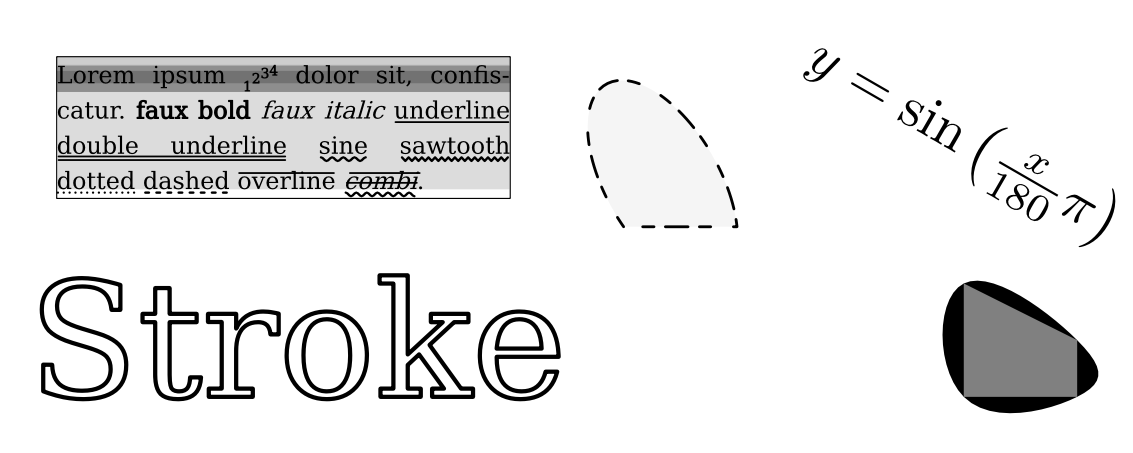
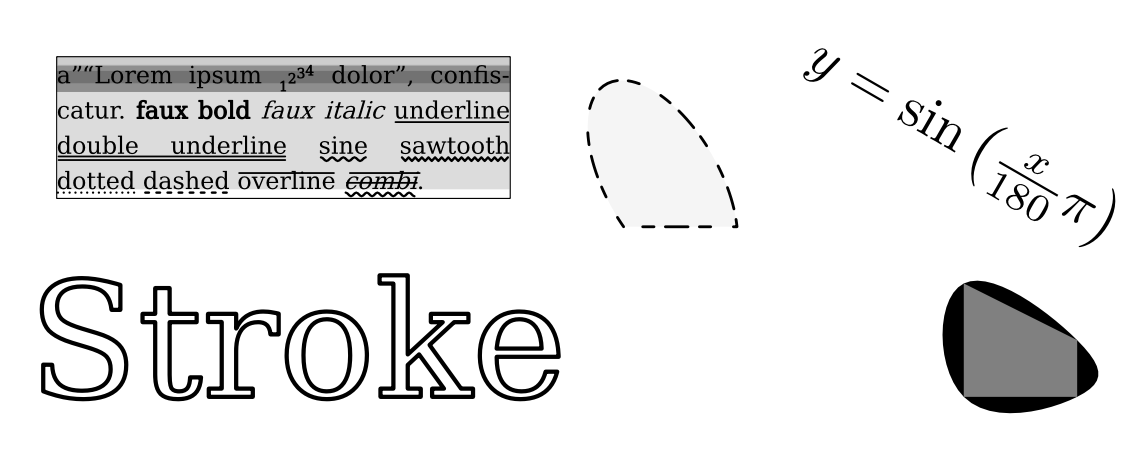
Clean up Text

Changed region(s): [[0.0309, 0.1236, 0.3707, 0.1854]]

diff --git a/text.go b/text.go
@@ -59,7 +59,7 @@ type span interface {
 	ToPath(float64) *Path
 }
 
-////////////////////////////////
+////////////////////////////////////////////////////////////////
 
 type RichText struct {
 	spans      []span
@@ -392,30 +392,30 @@ func (t *Text) ToSVG(x, y, rot float64, c color.Color) string {
 			switch span := ls.span.(type) {
 			case textSpan:
 				name, size, style := span.ff.Info() // TODO: use faux styles and decoration
-				span.splitAtSpacings(ls.dx, ls.w, func(dx, w, glyphSpacing float64, s string) {
-					sb.WriteString("<tspan x=\"")
-					writeFloat64(&sb, x+dx)
-					sb.WriteString("\" y=\"")
-					writeFloat64(&sb, y-line.y)
-					if glyphSpacing > 0.0 {
-						sb.WriteString("\" textLength=\"")
-						writeFloat64(&sb, w)
-					}
-					sb.WriteString("\" font-family=\"")
-					sb.WriteString(name)
-					sb.WriteString("\" font-size=\"")
-					writeFloat64(&sb, size)
-					if style&Italic != 0 {
-						sb.WriteString("\" font-style=\"italic")
-					}
-					if style&Bold != 0 {
-						sb.WriteString("\" font-weight=\"bold")
-					}
-					sb.WriteString("\">")
-					s = span.ff.f.transform(s, w == 0.0)
-					sb.WriteString(s)
-					sb.WriteString("</tspan>")
-				})
+				glyphSpacing := span.getGlyphSpacing(ls.w)
+
+				sb.WriteString("<tspan x=\"")
+				writeFloat64(&sb, x+ls.dx)
+				sb.WriteString("\" y=\"")
+				writeFloat64(&sb, y-line.y)
+				if glyphSpacing > 0.0 {
+					sb.WriteString("\" textLength=\"")
+					writeFloat64(&sb, span.textWidth+float64(utf8.RuneCountInString(span.s))*glyphSpacing)
+				}
+				sb.WriteString("\" font-family=\"")
+				sb.WriteString(name)
+				sb.WriteString("\" font-size=\"")
+				writeFloat64(&sb, size)
+				if style&Italic != 0 {
+					sb.WriteString("\" font-style=\"italic")
+				}
+				if style&Bold != 0 {
+					sb.WriteString("\" font-weight=\"bold")
+				}
+				sb.WriteString("\">")
+				span.s = span.ff.f.transform(span.s, glyphSpacing == 0.0)
+				sb.WriteString(span.s)
+				sb.WriteString("</tspan>")
 			default:
 				panic("unsupported span type")
 			}
@@ -425,16 +425,17 @@ func (t *Text) ToSVG(x, y, rot float64, c color.Color) string {
 	return sb.String()
 }
 
+////////////////////////////////////////////////////////////////
+
 type textSpan struct {
-	ff        FontFace
-	s         string
-	textWidth float64
-	//sentenceSpacings int
-	//wordSpacings     int
+	ff             FontFace
+	s              string
+	textWidth      float64
 	glyphSpacings  int
 	wordBoundaries []textBoundary
 }
 
+// TODO: proper transformation of typographic elements, ie. including surrounding text
 func newTextSpan(ff FontFace, s string) textSpan {
 	textWidth := ff.TextWidth(s)
 	wordBoundaries, glyphSpacings := calcWordBoundaries(s)
@@ -477,31 +478,22 @@ func (ts textSpan) Split(width float64) (span, span) {
 	return nil, ts
 }
 
-func (ts textSpan) ToPath(width float64) *Path {
-	//sentenceSpacing := 0.0
-	//wordSpacing := 0.0
+func (ts textSpan) getGlyphSpacing(width float64) float64 {
 	glyphSpacing := 0.0
-	if width > ts.textWidth {
-		widthLeft := width - ts.textWidth
-		xHeight := ts.ff.Metrics().XHeight
-		//if ts.sentenceSpacings > 0 {
-		//	sentenceSpacing = math.Min(widthLeft/float64(ts.sentenceSpacings), xHeight*MaxSentenceSpacing)
-		//	widthLeft -= float64(ts.sentenceSpacings) * sentenceSpacing
-		//}
-		//if ts.wordSpacings > 0 {
-		//	wordSpacing = math.Min(widthLeft/float64(ts.wordSpacings), xHeight*MaxWordSpacing)
-		//	widthLeft -= float64(ts.wordSpacings) * wordSpacing
-		//}
-		if ts.glyphSpacings > 0 {
-			glyphSpacing = math.Min(widthLeft/float64(ts.glyphSpacings), xHeight*MaxGlyphSpacing)
-		}
+	maxGlyphSpacing := ts.ff.Metrics().XHeight * MaxGlyphSpacing
+	if 0 < ts.glyphSpacings && ts.textWidth < width && width < ts.textWidth+float64(ts.glyphSpacings)*maxGlyphSpacing {
+		glyphSpacing = (width - ts.textWidth) / float64(ts.glyphSpacings)
 	}
+	return glyphSpacing
+}
+
+func (ts textSpan) ToPath(width float64) *Path {
+	glyphSpacing := ts.getGlyphSpacing(width)
 	s := ts.ff.f.transform(ts.s, glyphSpacing == 0.0)
 
 	x := 0.0
 	p := &Path{}
 	var rPrev rune
-	//iBoundary := 0
 	for i, r := range s {
 		if i > 0 {
 			x += ts.ff.Kerning(rPrev, r)
@@ -512,64 +504,13 @@ func (ts textSpan) ToPath(width float64) *Path {
 		p.Append(pr)
 		x += advance
 
-		spacing := glyphSpacing
-		//if iBoundary < len(ts.textBoundaries) && ts.textBoundaries[iBoundary].pos == i {
-		//	if ts.textBoundaries[iBoundary].kind == wordBoundary {
-		//		spacing = wordSpacing
-		//	} else if ts.textBoundaries[iBoundary].kind == sentenceBoundary {
-		//		spacing = sentenceSpacing
-		//	}
-		//	iBoundary++
-		//}
-		x += spacing
+		x += glyphSpacing
 		rPrev = r
 	}
 	return p
 }
 
-// TODO: remove
-func (ts textSpan) splitAtSpacings(spanDx, width float64, f func(float64, float64, float64, string)) {
-	//spaceWidth := ts.ff.TextWidth(" ")
-	//sentenceSpacing := 0.0
-	//wordSpacing := 0.0
-	glyphSpacing := 0.0
-	if width > ts.textWidth {
-		widthLeft := width - ts.textWidth
-		xHeight := ts.ff.Metrics().XHeight
-		//	if ts.sentenceSpacings > 0 {
-		//		sentenceSpacing = math.Min(widthLeft/float64(ts.sentenceSpacings), xHeight*MaxSentenceSpacing)
-		//		widthLeft -= float64(ts.sentenceSpacings) * sentenceSpacing
-		//	}
-		//	if ts.wordSpacings > 0 {
-		//		wordSpacing = math.Min(widthLeft/float64(ts.wordSpacings), xHeight*MaxWordSpacing)
-		//		widthLeft -= float64(ts.wordSpacings) * wordSpacing
-		//	}
-		if ts.glyphSpacings > 0 {
-			glyphSpacing = math.Min(widthLeft/float64(ts.glyphSpacings), xHeight*MaxGlyphSpacing)
-		}
-	}
-	//if sentenceSpacing > 0.0 || wordSpacing > 0.0 {
-	//	prevPos := 0
-	//	dx := spanDx
-	//	for _, textBoundary := range ts.textBoundaries {
-	//		s := ts.s[prevPos:textBoundary.pos]
-	//		w := ts.ff.TextWidth(s)
-	//		if glyphSpacing > 0.0 {
-	//			w += float64(utf8.RuneCountInString(s)-1) * glyphSpacing
-	//		}
-	//		f(dx, w, glyphSpacing, s)
-	//		prevPos = textBoundary.pos + 1
-	//		dx += ts.ff.TextWidth(s) + spaceWidth + float64(utf8.RuneCountInString(s))*glyphSpacing
-	//		if textBoundary.kind == wordBoundary {
-	//			dx += wordSpacing
-	//		} else if textBoundary.kind == sentenceBoundary {
-	//			dx += sentenceSpacing
-	//		}
-	//	}
-	//} else {
-	f(spanDx, width, glyphSpacing, ts.s)
-	//}
-}
+////////////////////////////////////////////////////////////////
 
 type textBoundaryKind int
 

diff --git a/example/example.go b/example/example.go
@@ -91,12 +91,12 @@ func drawText(c *canvas.C, x, y float64, face canvas.FontFace, rich *canvas.Rich
 func Draw(c *canvas.C) {
 	face := dejaVuSerif.Face(12.0)
 	rich := canvas.NewRichText()
-	rich.Add(face, "Lorem ipsum ")
+	rich.Add(face, "\"Lorem ipsum ")
 	rich.Add(face.Faux(canvas.Subscript), "1")
 	rich.Add(face.Faux(canvas.Inferior), "2")
 	rich.Add(face.Faux(canvas.Superior), "3")
 	rich.Add(face.Faux(canvas.Superscript), "4")
-	rich.Add(face, " dolor sit, confis\u200bcatur. ")
+	rich.Add(face, " dolor\", confis\u200bcatur. ")
 	rich.Add(face.Faux(canvas.Bold), "faux bold ")
 	rich.Add(face.Faux(canvas.Italic), "faux\titalic ")
 	rich.Add(face.Decoration(canvas.Underline), "underline")

diff --git a/README.md b/README.md
@@ -4,7 +4,7 @@ Canvas is a common vector drawing target that can output SVG, PDF, EPS and raste
 
 ![Example](https://raw.githubusercontent.com/tdewolff/canvas/master/example/example.png)
 
-Figure 1: top-left you can see text being fitted into a box and their bounding box (light grey), the space between the words on the first row is being stretched to fill the whole width. The second row shows typographic substitution (the quotes) and ligature support (fi, ffi, ffl, ...). Below the text box, the word "stroke" is being stroked and drawn as a path. Top-right we see a LaTeX formula that has been converted to a path. Left of that we see ellipse support showcasing precise dashing, notably the length of e.g. the short dash is equal wherever it is (approximated through arc length parametrization) on the curve. It also shows support for alternating dash lengths, in this case (2.0, 4.0, 2.0) for dashes and for spaces. Note that the dashes themselves are elliptical arcs as well (thus exactly precise even if magnified greatly). In the bottom-right we see a closed polygon of four points being smoothed by cubic Béziers that are smooth along the whole path (works for both open and closed paths).
+Figure 1: top-left you can see text being fitted into a box and their bounding box (light grey), the spaces between the words on the first row are being stretched to fill the whole width. You can see all the possible styles and text decorations applied. Also note the typographic substitutions (the quotes) and ligature support (fi, ffi, ffl, ...). Below the text box, the word "stroke" is being stroked and drawn as a path. Top-right we see a LaTeX formula that has been converted to a path. Left of that we see ellipse support showcasing precise dashing, notably the length of e.g. the short dash is equal wherever it is (approximated through arc length parametrization) on the curve. It also shows support for alternating dash lengths, in this case (2.0, 4.0, 2.0) for dashes and for spaces. Note that the dashes themselves are elliptical arcs as well (thus exactly precise even if magnified greatly). In the bottom-right we see a closed polygon of four points being smoothed by cubic Béziers that are smooth along the whole path (works for both open and closed paths).
 
 Terminology: a path is a sequence of drawing commands (MoveTo, LineTo, QuadTo, CubeTo, ArcTo, Close) that completely describe a path. QuadTo and CubeTo are quadratic and cubic Béziers respectively, ArcTo is an elliptical arc, and Close is a LineTo to the last MoveTo command and closes the path (sometimes this has a special meaning such as when stroking). A path can consist of several path segments by having multiple MoveTos, Closes, or the pair of Close and MoveTo. Flattening is the action of converting the QuadTo, CubeTo and ArcTo commands into LineTos.
 
